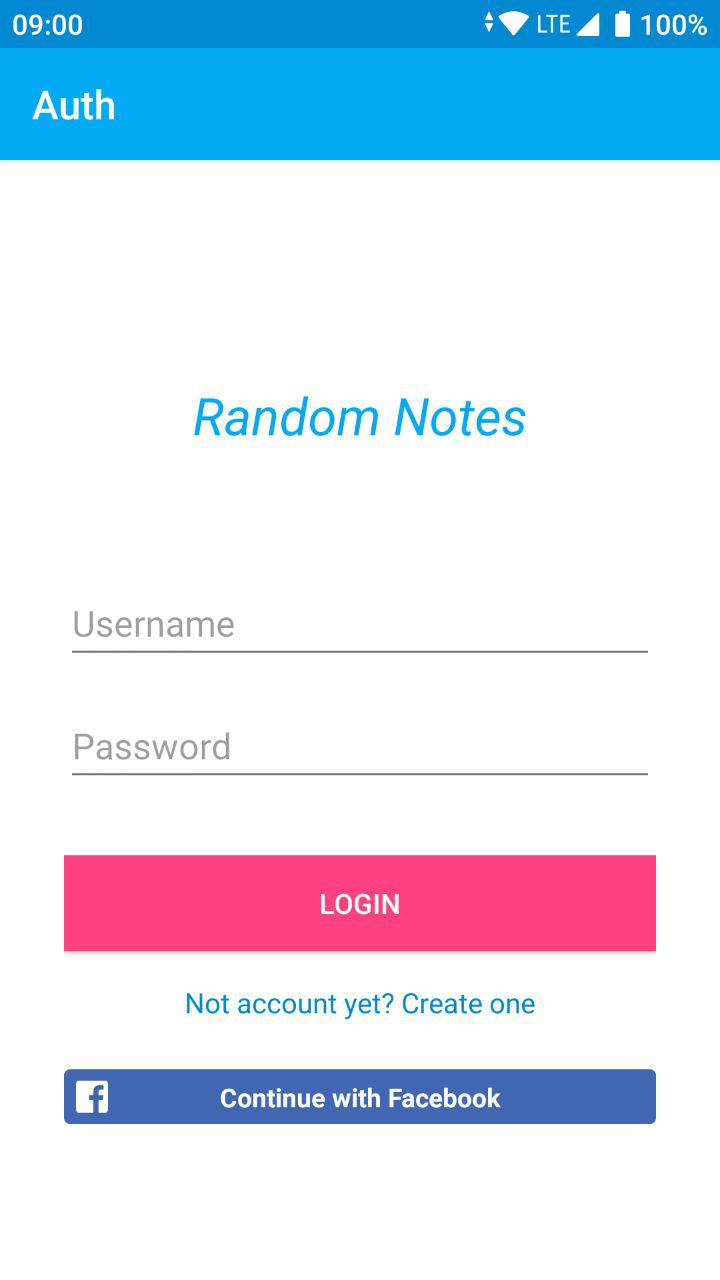
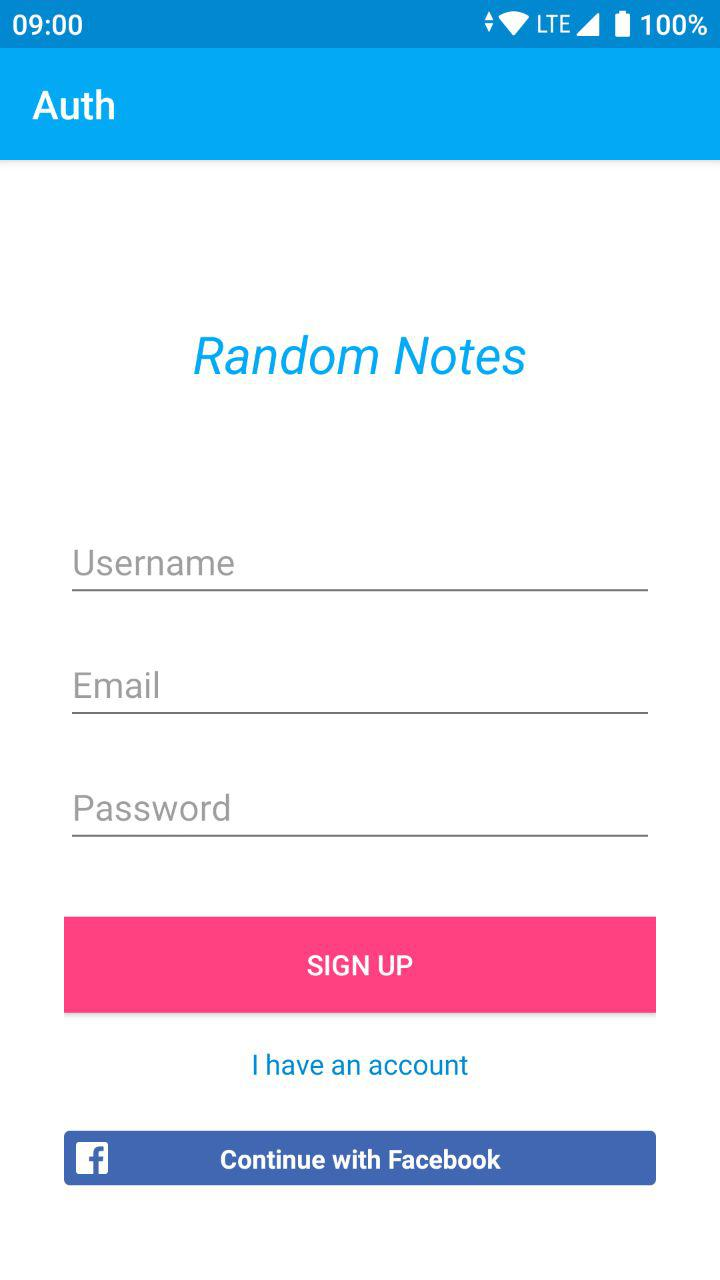
2019-07-22 Version 0.9.2: Updated screenshots

Changed region(s): [[0.0917, 0.4375, 0.9167, 0.9375], [0.275, 0.25, 0.7333, 0.3438]]

diff --git a/README.md b/README.md
@@ -7,7 +7,7 @@ Test Android application for [Parse test server](https://github.com/fartem/parse
 - managing simple entity (Note);
 - sync data with server;
 - restore data from server;
-- sign up from application with email or Facebook account;
+- sign up from application with email address or Facebook account;
 - sign in to server with email or Facebook.
 
 ## 2. Parse initialization
